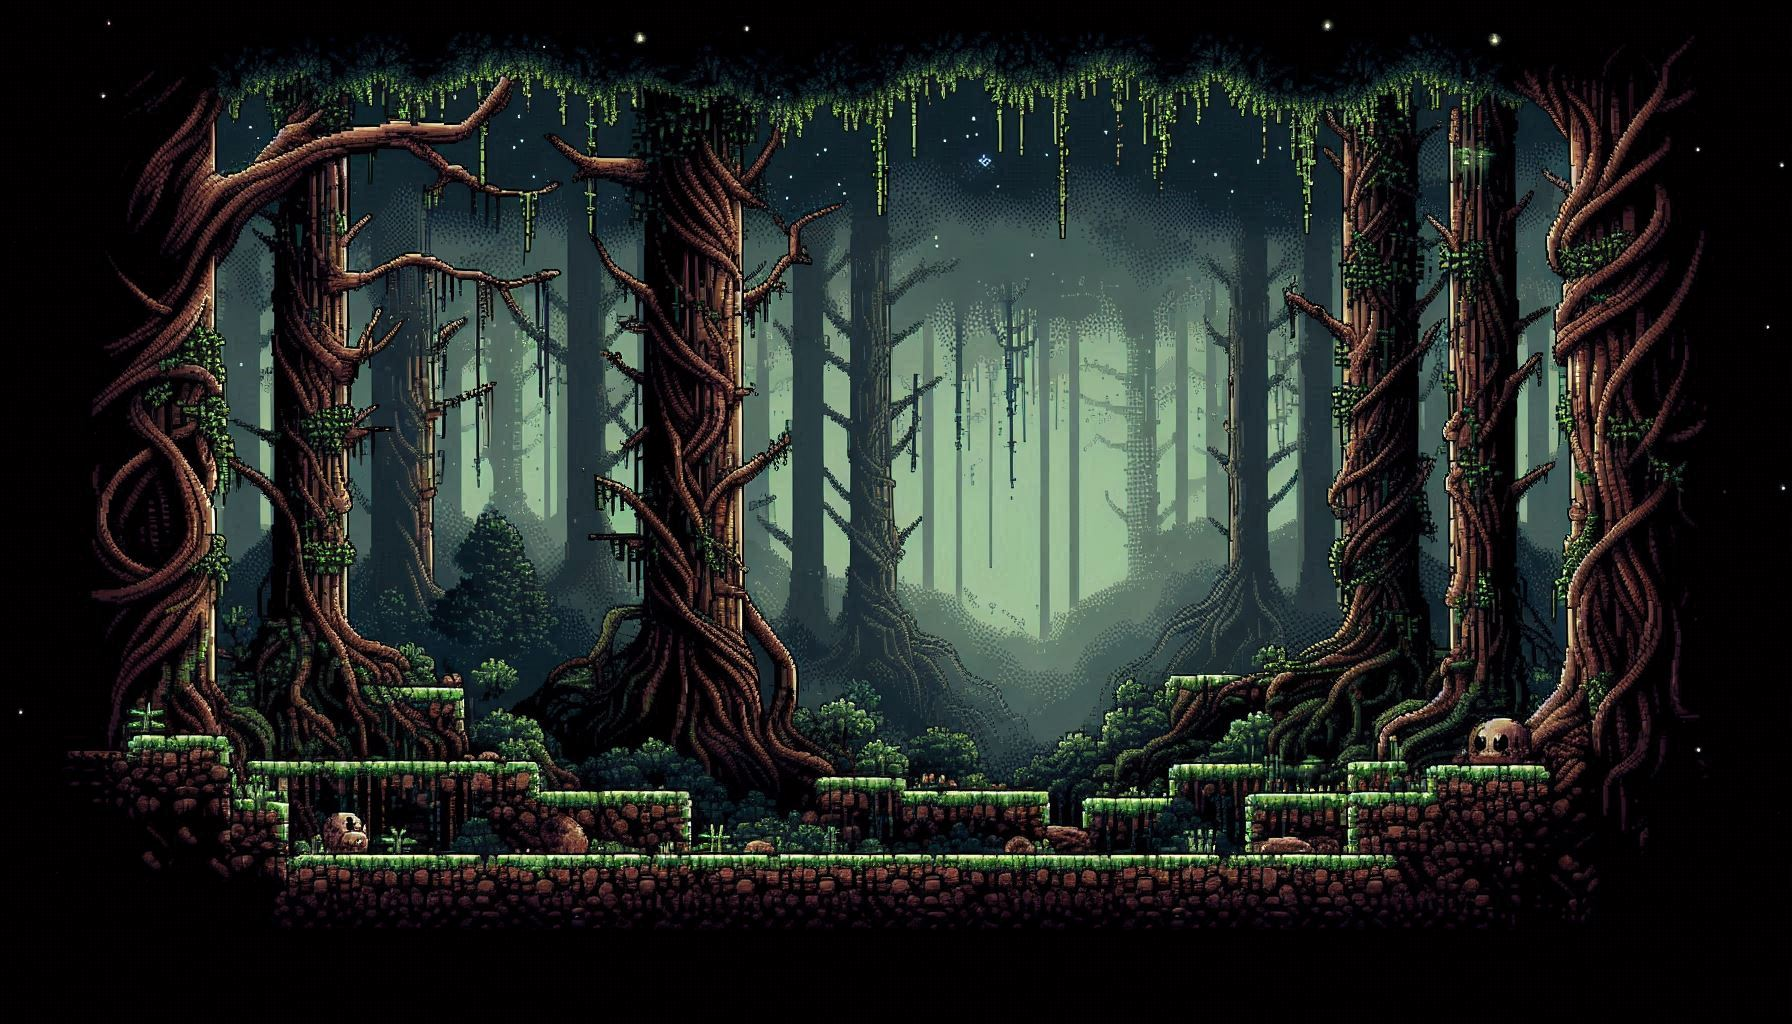
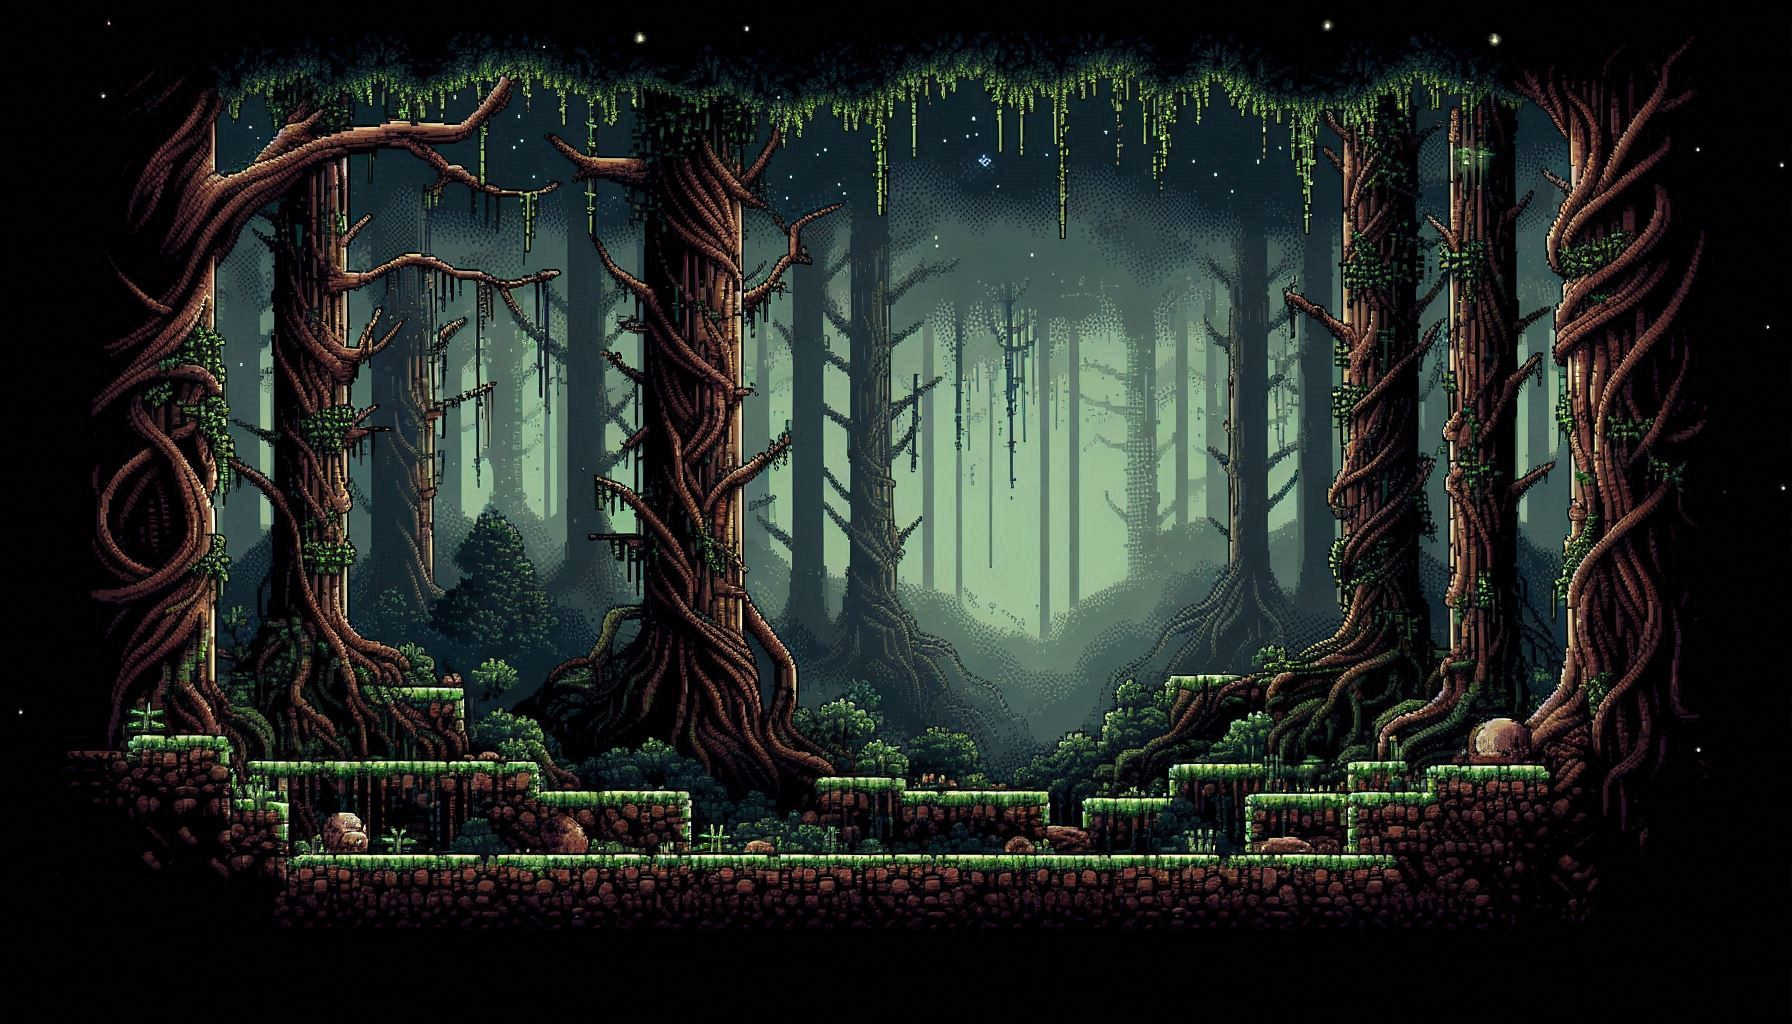
improve/crop map images, move objs for cropping, move green herb  to far right or lake

diff --git a/src/data/item.ts b/src/data/item.ts
@@ -10,7 +10,7 @@ export const ItemData: Record<ItemType, Data> = {
   [ItemType.Gear1]: { x: 0, y: 0, image: 'gear', name: 'Shiny Gear' },
   [ItemType.Key]: { x: 0, y: 0, image: 'key', name: 'Rusty Key', skipLighting: true },
   [ItemType.HerbRed]: { x: -200, y: 1730, image: 'herb_red', name: 'Crimson Starbloom' },
-  [ItemType.HerbGreen]: { x: 5295, y: 985, image: 'herb_green', name: 'Green Writhewood' },
+  [ItemType.HerbGreen]: { x: 5650, y: 985, image: 'herb_green', name: 'Green Writhewood' },
   [ItemType.HerbBlue]: { x: 1535, y: 875, image: 'herb_blue', name: 'Blue Plumed Frond' },
   [ItemType.Potion]: { x: 0, y: 0, image: 'potion', name: 'Strange Potion' },
   [ItemType.Gear2]: { x: 0, y: 0, image: 'gear2', name: 'Old Gear' },

diff --git a/src/data/slope.ts b/src/data/slope.ts
@@ -16,7 +16,7 @@ export const SlopeData: Data[] = [
   { x: 815, y: -2010, width: 90, height: 70 },
 
   // Lake
-  { x: 5150, y: 953, width: 100, height: 60, flip: true },
+  { x: 5077, y: 953, width: 100, height: 60, flip: true },
 
   // Mansion
   { x: -1300, y: -415, width: 90, height: 35 },

diff --git a/src/data/wall.ts b/src/data/wall.ts
@@ -30,8 +30,8 @@ export const WallData: Data[] = [
   { x: 3630, y: 760, id: WallType.Sphinx },
 
   // Lake
-  { x: 4575, y: 850 },
-  { x: 5835, y: 900 },
+  { x: 4455, y: 850 },
+  { x: 5690, y: 900 },
 
   // Mansion Outside
   { x: -565, y: 575 },

diff --git a/src/data/warp.ts b/src/data/warp.ts
@@ -143,7 +143,7 @@ export const WarpData: Record<WarpType, Data> = {
     initializeOnStart: true,
   },
   [WarpType.Lake]: {
-    x: 4625,
+    x: 4510,
     y: 915,
     key: Key.Left,
     warpTo: WarpType.ForestEast,

diff --git a/src/classes/Environment/Fireflies.ts b/src/classes/Environment/Fireflies.ts
@@ -11,7 +11,7 @@ function r() {
 
 export const FireflyPositions = {
   Forest: [3200, 600],
-  Lake: [5350, 690],
+  Lake: [5125, 700],
 };
 
 const weights = [500, 200, 100, 50, 10];
